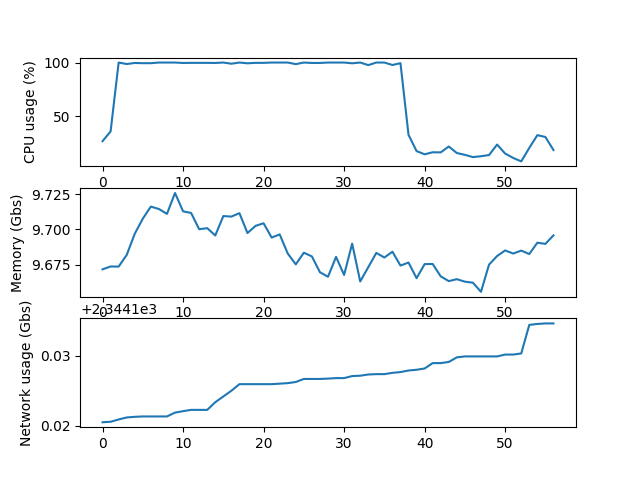
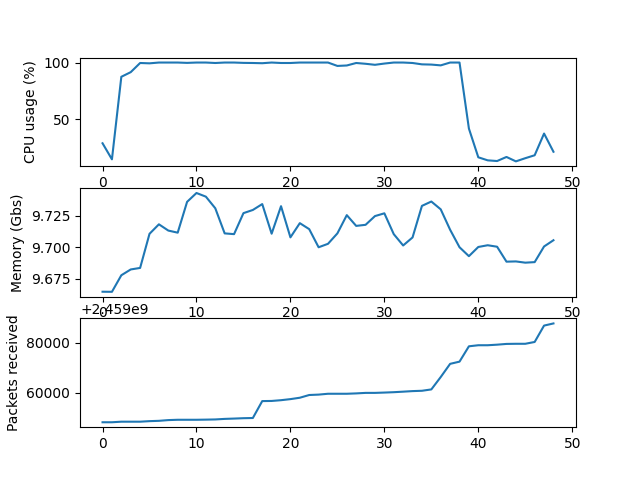
updating multithreading usage

diff --git a/multithreading/server.py b/multithreading/server.py
@@ -61,7 +61,7 @@ class Server:
         while True:
             self.cpu_ps.append(psutil.cpu_percent(1))
             self.memory_ps.append(psutil.virtual_memory()[3]/1000000000)
-            self.net_ps.append(psutil.net_io_counters().bytes_sent / (1024 ** 2))
+            self.net_ps.append(psutil.net_io_counters().bytes_sent)
 
 host = "localhost"
 port = 12345
@@ -87,5 +87,5 @@ plt.ylabel('Memory (Gbs)')
 
 plt.subplot(3, 1, 3)
 plt.plot(server.net_ps, label="Network usage")
-plt.ylabel('Network usage (Gbs)')
+plt.ylabel('Packets received')
 plt.show()
